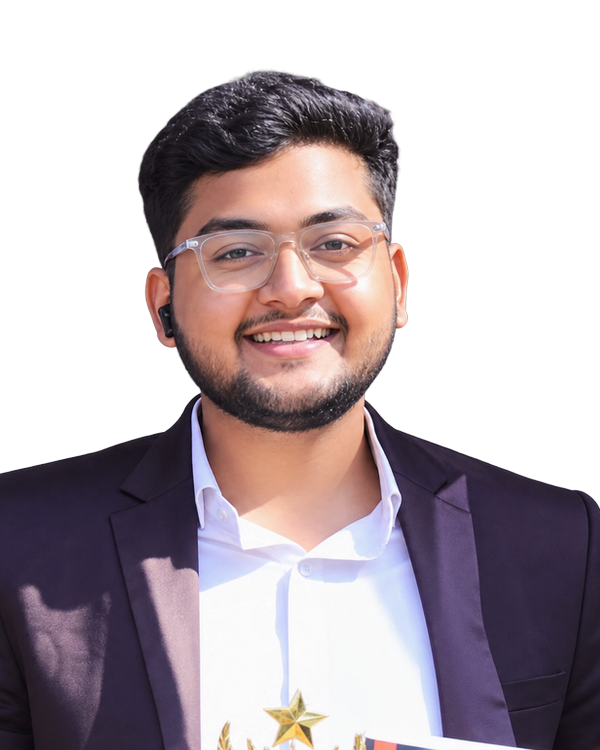
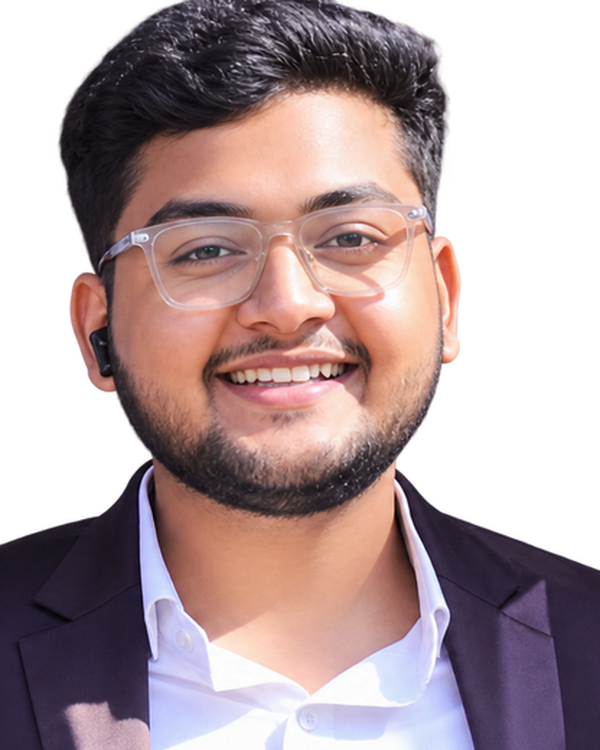
fix(team): update credentials for Kaif Nezami & Vinay Singh and crop chest portrait
- Change role detail to 'Project Intern @Drone Electronics Lab IIT ISM • Semi-Finalist @ISRO IRoC-U'26' for Md Kaif Nezami and Vinay Singh
- Recrop Kaif Nezami photo from chest up to eliminate award in hand for clean portrait alignment

diff --git a/team.html b/team.html
@@ -330,7 +330,7 @@
           </div>
           <div class="member-name">Md Kaif Nezami</div>
           <div class="member-role">Sponsorship Head</div>
-          <div class="member-role-detail">Sponsorship &amp; Partnerships &bull; Project Intern @Drone Lab IIT ISM &bull; Semi-Finalist @ISRO IRoC-U '26</div>
+          <div class="member-role-detail">Project Intern @Drone Electronics Lab IIT ISM &bull; Semi-Finalist @ISRO IRoC-U '26</div>
           <a href="https://www.linkedin.com/in/md-kaif-nezami-029507313/" target="_blank" rel="noopener noreferrer" class="member-btn">
             <i data-lucide="linkedin" style="width:13px;height:13px;"></i> LinkedIn
           </a>
@@ -369,7 +369,7 @@
           </div>
           <div class="member-name">Vinay Singh</div>
           <div class="member-role">Sponsorship Head</div>
-          <div class="member-role-detail">Corporate Sponsorships &amp; External Relations &bull; Semi-Finalist @ISRO IRoC-U '26</div>
+          <div class="member-role-detail">Project Intern @Drone Electronics Lab IIT ISM &bull; Semi-Finalist @ISRO IRoC-U '26</div>
           <a href="https://www.linkedin.com/in/vinay-singh-4a58a4280/" target="_blank" rel="noopener noreferrer" class="member-btn">
             <i data-lucide="linkedin" style="width:13px;height:13px;"></i> LinkedIn
           </a>

diff --git a/index.html b/index.html
@@ -450,7 +450,7 @@
           </div>
           <div class="member-name">Md Kaif Nezami</div>
           <div class="member-role">Sponsorship Head</div>
-          <div class="member-role-detail">Partnerships &bull; Drone Lab IIT ISM &bull; Semi-Finalist @ISRO IRoC-U</div>
+          <div class="member-role-detail">Project Intern @Drone Electronics Lab IIT ISM &bull; Semi-Finalist @ISRO IRoC-U</div>
         </div>
 
       </div>
